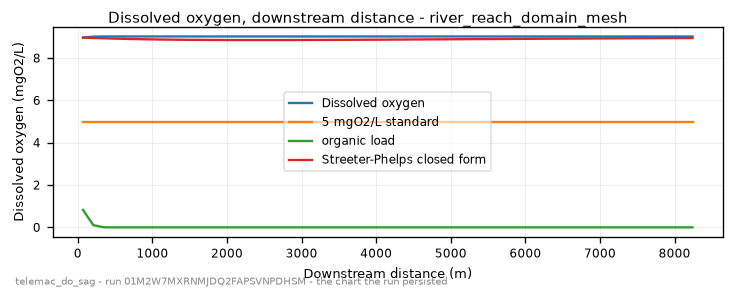
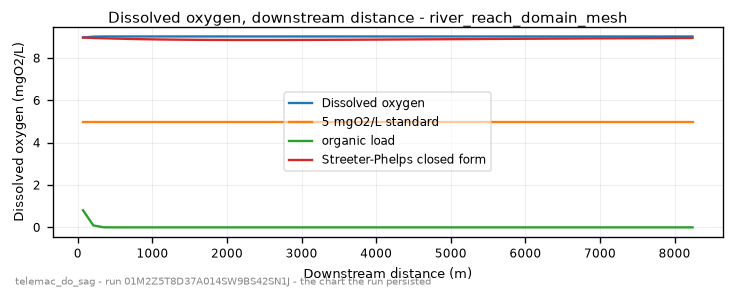
docs: the DO-sag page is pinned to a run this tree made
Claude-Session: https://claude.ai/code/session_011wCduZ7TyoMtpZoGZfh2Rw

Changed region(s): [[0.2098, 0.903, 0.6294, 0.9632]]

diff --git a/docs/templates/telemac_do_sag.md b/docs/templates/telemac_do_sag.md
@@ -37,18 +37,18 @@ The values the template declares. `desc` is what the model reads when it fills o
 
 | field | the proving run's value |
 |---|---|
-| `do_min_mgl` | 8.96890545403967 |
+| `do_min_mgl` | 8.969906822172113 |
 | `do_below_standard` | False |
 | `do_min_distance_m` | 69.24522524599003 |
-| `bod_mixed_mgl` | 0.8260952257298289 |
-| `mean_velocity_mps` | 0.016844866028475004 |
+| `bod_mixed_mgl` | 0.809925268189967 |
+| `mean_velocity_mps` | 0.016625604899186207 |
 | `mesh_size_m` | 14.524 |
 
 It publishes these layers onto the canvas:
 
-- Input: river reach (river_reach)
-- Input: ehydro surveys (ehydro_surveys)
-- Input: bed elevation (dem, 3DEP 1-10 m US lidar (default 10 m); Copernicus GLO-30 30 m global via source=copernicus, datum NAVD88 (metres, positive up))
+- Input: domain (river_reach)
+- Input: bed (ehydro_surveys)
+- Input: bed (3dep_extra, datum NAVD88 (metres, positive up))
 - Outfall (user) - river_reach_domain
 - Velocity u over time (river_reach_domain_mesh)
 - Velocity v over time (river_reach_domain_mesh)
@@ -65,23 +65,23 @@ It publishes these layers onto the canvas:
 
 ## The proving run
 
-Run `01M2W7MXRNMJDQ2FAPSVNPDHSM`, 2026-09-19T07:04:25.319103+00:00, 55.658 s, at commit `966392d7b95ac996d00a5df14f667096b64a3e2a-dirty`.
+Run `01M2Z5T8D37A014SW9BS42SN1J`, 2026-09-20T10:30:05.473585+00:00, 114.278 s, at commit `51e023434461a083a833809792aa1c54c2fb790e-dirty`.
 
-![Every layer the run published, stacked and framed on the result (run 01M2W7MXRNMJDQ2FAPSVNPDHSM)](telemac_do_sag/telemac_do_sag.png)
+![Every layer the run published, stacked and framed on the result (run 01M2Z5T8D37A014SW9BS42SN1J)](telemac_do_sag/telemac_do_sag.png)
 
-*Every layer the run published, stacked and framed on the result (run 01M2W7MXRNMJDQ2FAPSVNPDHSM)*
+*Every layer the run published, stacked and framed on the result (run 01M2Z5T8D37A014SW9BS42SN1J)*
 
-![The solve, frame by frame (run 01M2W7MXRNMJDQ2FAPSVNPDHSM)](telemac_do_sag/telemac_do_sag_animation.gif)
+![The solve, frame by frame (run 01M2Z5T8D37A014SW9BS42SN1J)](telemac_do_sag/telemac_do_sag_animation.gif)
 
-*The solve, frame by frame (run 01M2W7MXRNMJDQ2FAPSVNPDHSM)*
+*The solve, frame by frame (run 01M2Z5T8D37A014SW9BS42SN1J)*
 
-![final frame (run 01M2W7MXRNMJDQ2FAPSVNPDHSM)](telemac_do_sag/telemac_do_sag_final_frame.png)
+![final frame (run 01M2Z5T8D37A014SW9BS42SN1J)](telemac_do_sag/telemac_do_sag_final_frame.png)
 
-*final frame (run 01M2W7MXRNMJDQ2FAPSVNPDHSM)*
+*final frame (run 01M2Z5T8D37A014SW9BS42SN1J)*
 
-![dissolved oxygen - the chart the run persisted (run 01M2W7MXRNMJDQ2FAPSVNPDHSM)](telemac_do_sag/telemac_do_sag_chart_dissolved_oxygen.png)
+![dissolved oxygen - the chart the run persisted (run 01M2Z5T8D37A014SW9BS42SN1J)](telemac_do_sag/telemac_do_sag_chart_dissolved_oxygen.png)
 
-*dissolved oxygen - the chart the run persisted (run 01M2W7MXRNMJDQ2FAPSVNPDHSM)*
+*dissolved oxygen - the chart the run persisted (run 01M2Z5T8D37A014SW9BS42SN1J)*
 
 ### The sheet it filled
 
@@ -105,11 +105,11 @@ await TOOL_REGISTRY['telemac_do_sag'].fn(
     do_standard_mgl=5.0,
     mesh_resolution_m=40.0,
     outfall_coords={'lon': -122.669784, 'lat': 45.518485, 'name': None},
-    carrier=56.6,
-    stage=2.776,
+    discharge=56.6,
+    level=2.776,
     keywords={'DURATION': 7200.0, 'waqtel: CONSTANT OF DEGRADATION OF ORGANIC LOAD K1': 2.0, 'waqtel: K2 REAERATION COEFFICIENT': 6.0},
 )
 ```
 
-That is the invocation this run came from; the figures above are stamped with run `01M2W7MXRNMJDQ2FAPSVNPDHSM` and commit `966392d7b95ac996d00a5df14f667096b64a3e2a-dirty`. The full argument record is [`telemac_do_sag/run.json`](telemac_do_sag/run.json).
+That is the invocation this run came from; the figures above are stamped with run `01M2Z5T8D37A014SW9BS42SN1J` and commit `51e023434461a083a833809792aa1c54c2fb790e-dirty`. The full argument record is [`telemac_do_sag/run.json`](telemac_do_sag/run.json).
 

diff --git a/docs/templates/index.md b/docs/templates/index.md
@@ -42,7 +42,7 @@ Module `telemac2d`, proving run `01M2YWMDA28FGK9F2TWPTAGBTZ`.
 
 DISSOLVED-OXYGEN SAG below a discharge (US TMDL / permit question).
 
-Module `telemac2d`, proving run `01M2W7MXRNMJDQ2FAPSVNPDHSM`.
+Module `telemac2d`, proving run `01M2Z5T8D37A014SW9BS42SN1J`.
 
 ## [`telemac_dye_release`](telemac_dye_release.md)
 
